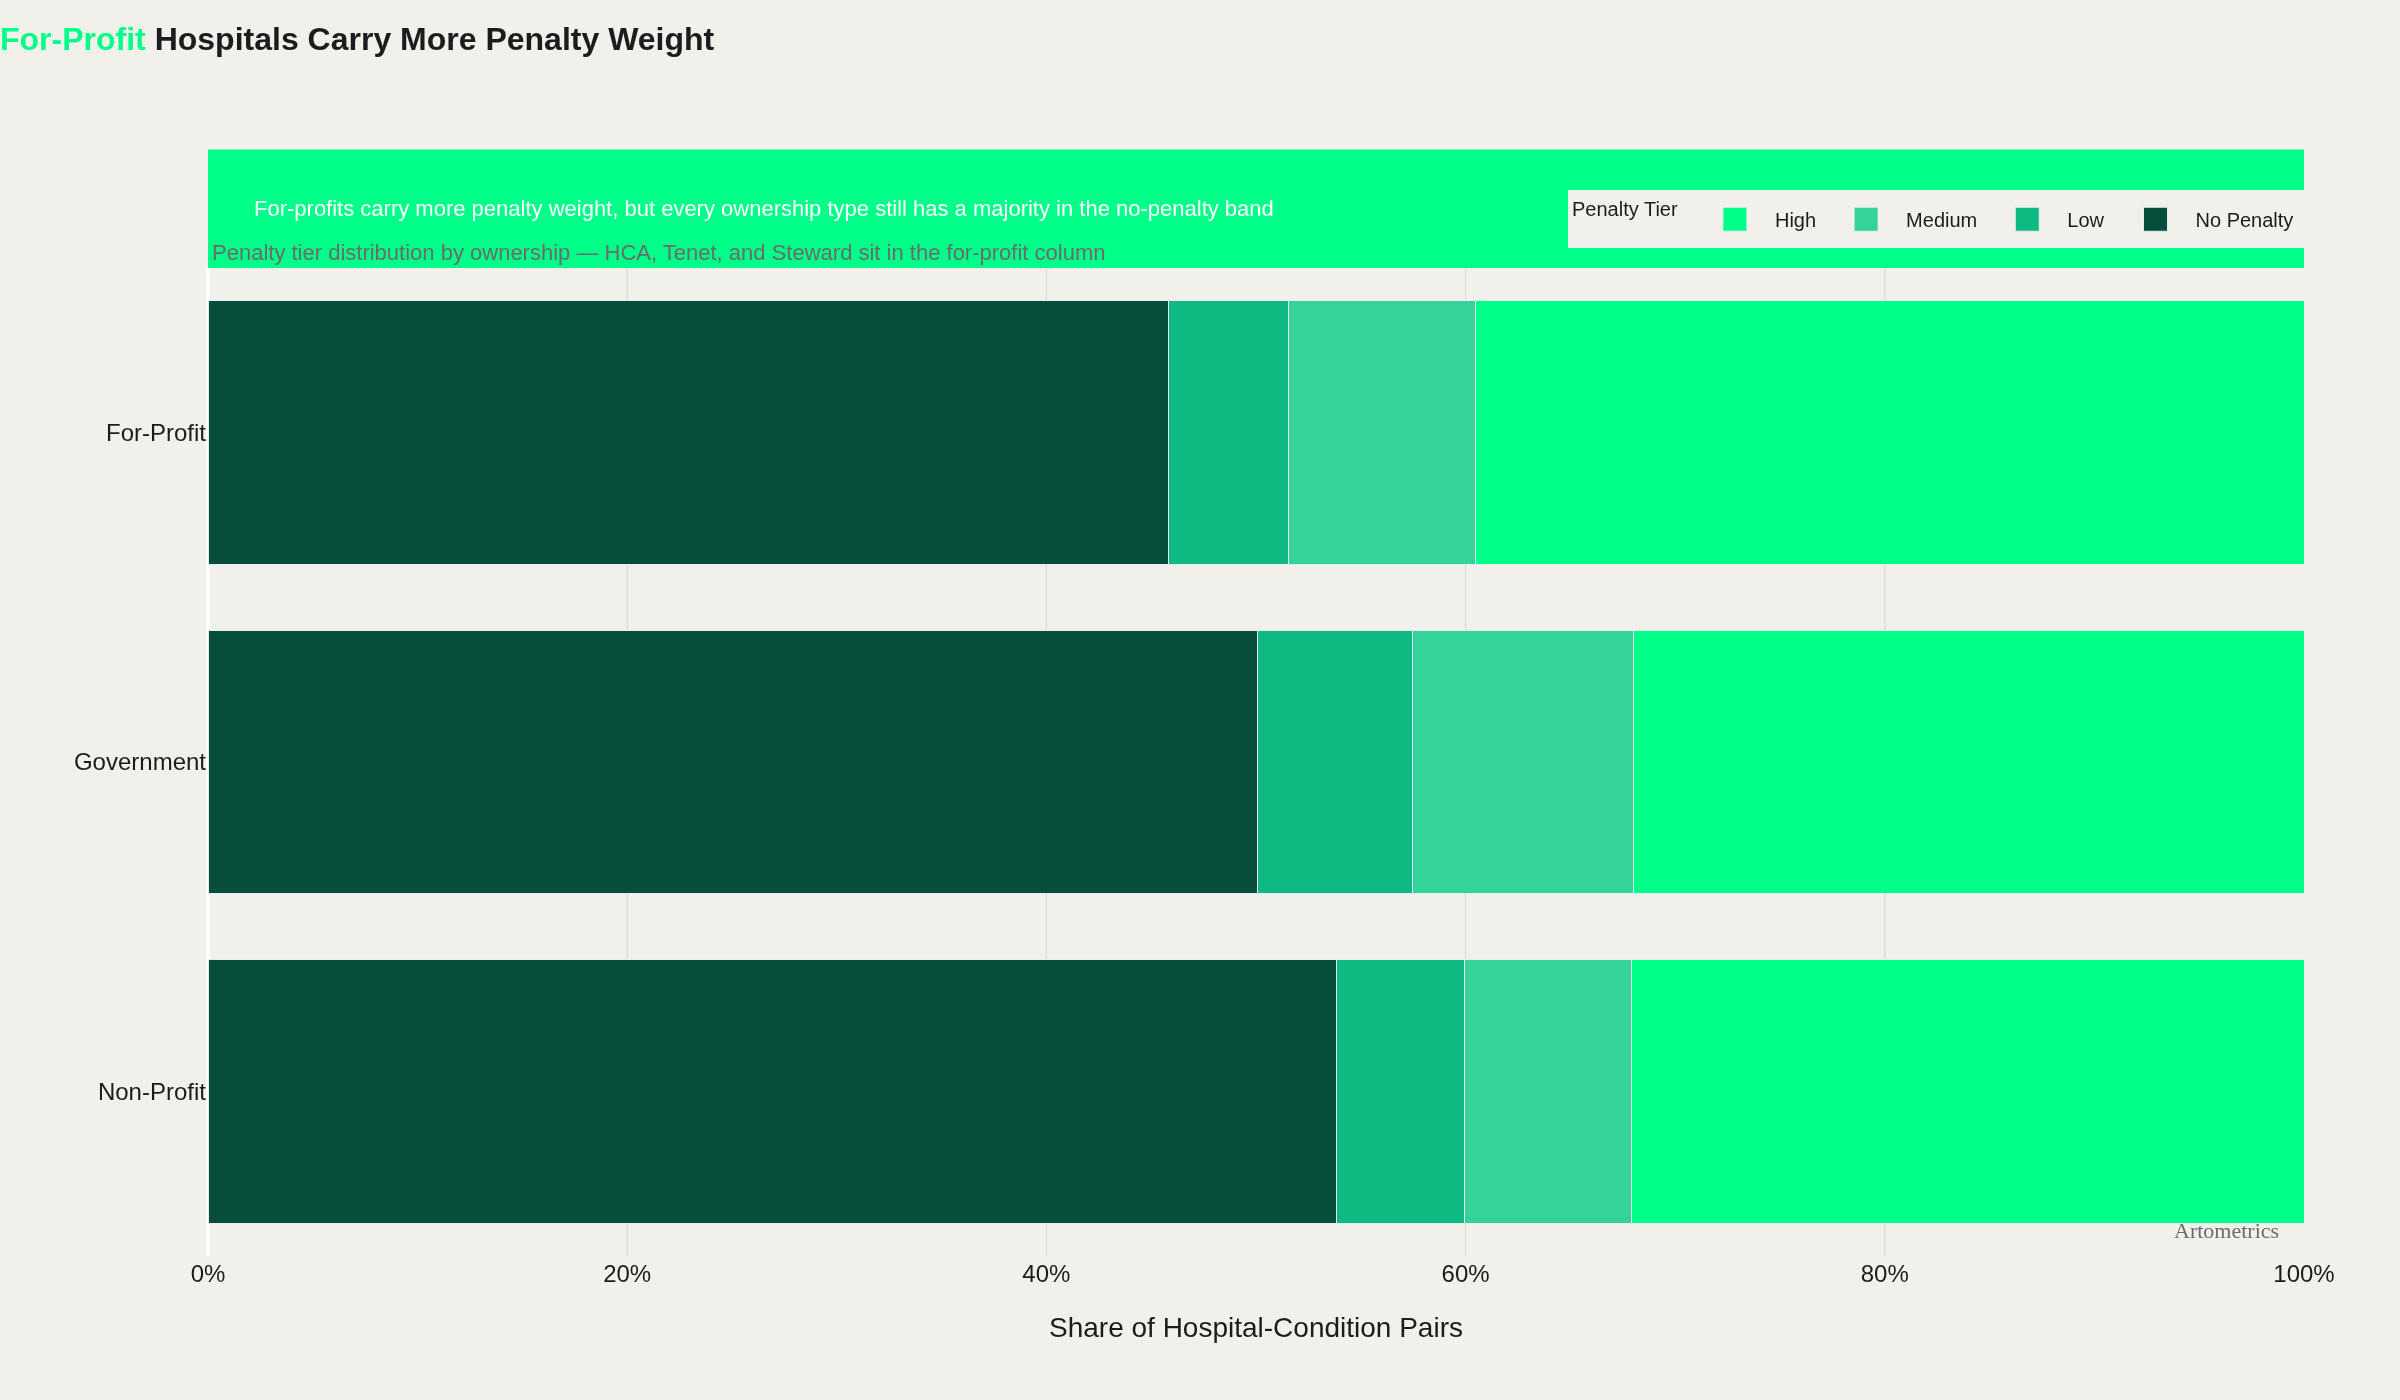
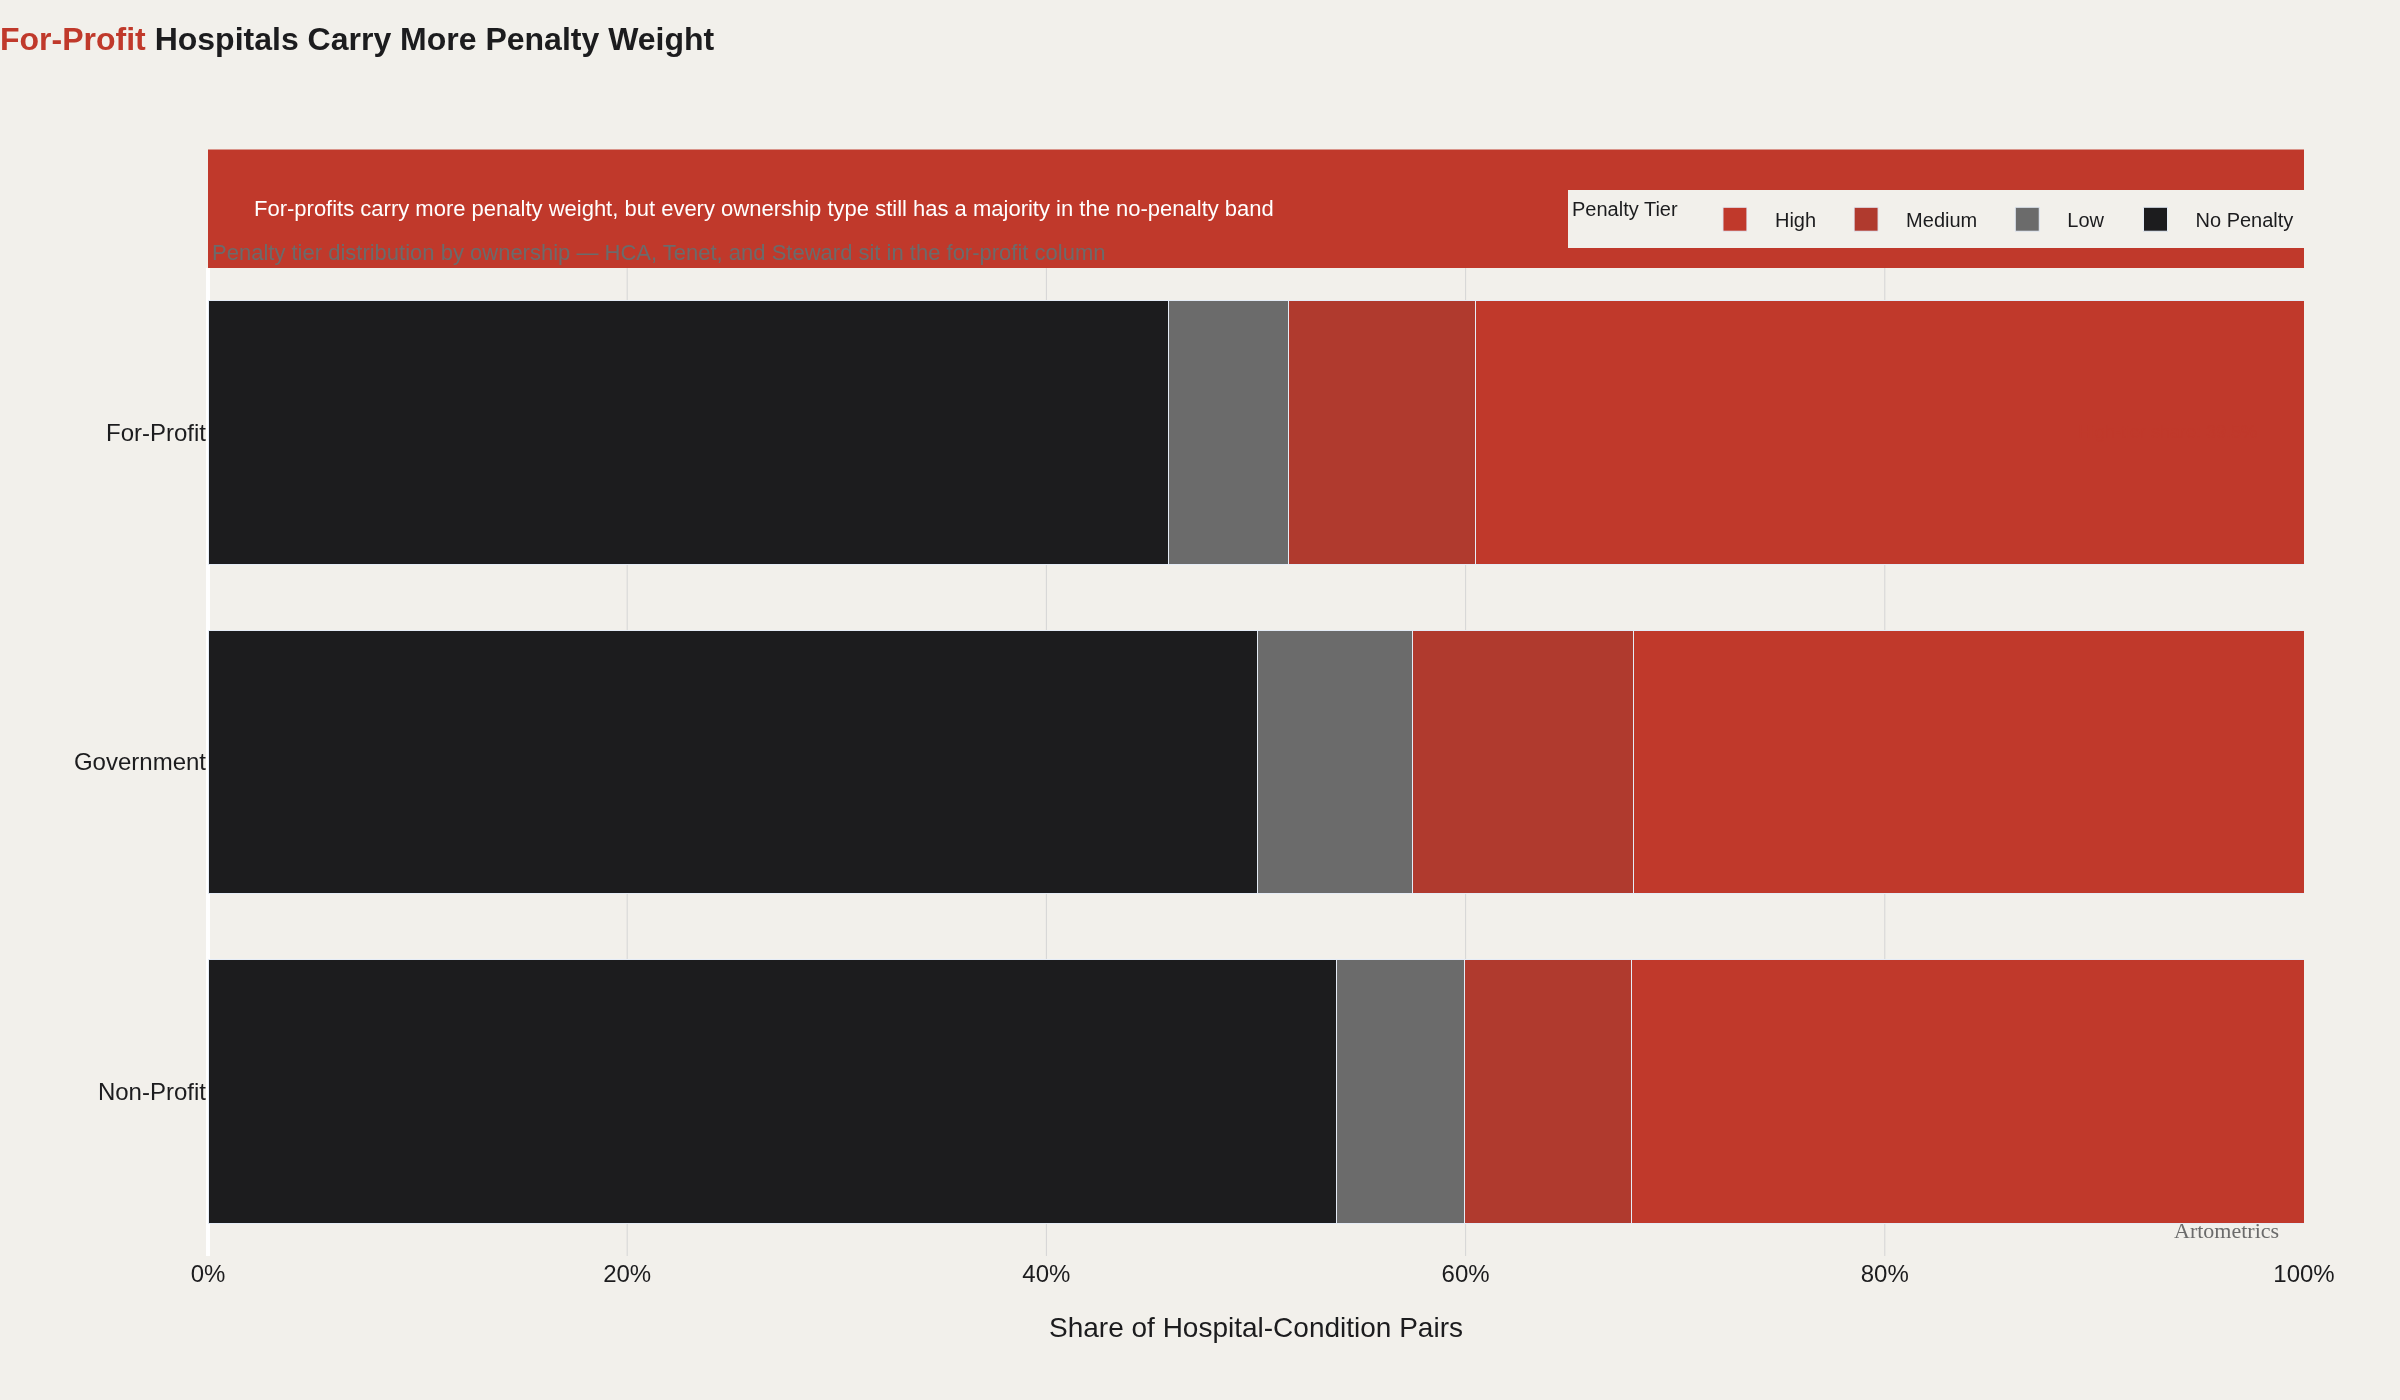
Fix search bar, red readmitted charts, and magazine-style prose
- Apply mobile search fix: portal modal to body, iOS input styling, z-index 10050
- Regenerate readmitted charts with red/white/black Artometrics palette
- Replace MYTH card UI with Economist-style h3 subheaders and flowing prose

diff --git a/src/styles/global.css b/src/styles/global.css
@@ -221,6 +221,18 @@
   outline-offset: 2px;
 }
 
+.site-search-input,
+.site-search-input:focus,
+.site-search-input:focus-visible {
+  outline: none !important;
+  box-shadow: none !important;
+  -webkit-tap-highlight-color: transparent;
+}
+
+body.site-search-open {
+  overflow: hidden;
+}
+
 body {
   text-rendering: optimizeLegibility;
   -webkit-font-smoothing: antialiased;

diff --git a/scripts/render-readmitted-charts.py b/scripts/render-readmitted-charts.py
@@ -16,30 +16,30 @@ SITE_IMG = ROOT / "public/images/content/articles/readmitted/charts"
 
 ART_CREAM = "#F2F0EB"
 ART_DARK = "#1C1C1E"
-ART_HIGHLIGHT = "#00FF88"
-ART_SECONDARY = "#059669"
+ART_HIGHLIGHT = "#C0392B"
+ART_SECONDARY = "#1C1C1E"
 ART_MID = "#6B6B6B"
 ART_MUTED = "#D5D5D5"
 FONT = "DM Sans, Helvetica, Arial, sans-serif"
 
 BAR_GRADIENT = [
-    "#022C22",
-    "#064E3B",
-    "#065F46",
-    "#047857",
-    "#059669",
-    "#10B981",
-    "#34D399",
-    "#6EE7B7",
-    "#86EFAC",
-    "#00FF88",
+    "#1C1C1E",
+    "#2A2A2A",
+    "#3A3A3A",
+    "#4A4A4A",
+    "#5C5C5C",
+    "#6E3A34",
+    "#8B3228",
+    "#A93226",
+    "#C0392B",
+    "#E74C3C",
 ]
 
 TIER_COLORS = {
-    "No Penalty": "#064E3B",
-    "Low": "#10B981",
-    "Medium": "#34D399",
-    "High": "#00FF88",
+    "No Penalty": "#1C1C1E",
+    "Low": "#6B6B6B",
+    "Medium": "#B03A2E",
+    "High": "#C0392B",
 }
 
 NAT_AVG_PCT = 48.1
@@ -203,7 +203,7 @@ def chart1(state_df: pd.DataFrame) -> go.Figure:
 
     fig.update_layout(
         **base_layout(
-            "<b>Which <span style='color:#00FF88;'>States</span> Have the Most Penalized Hospitals?</b>",
+            "<b>Which <span style='color:#C0392B;'>States</span> Have the Most Penalized Hospitals?</b>",
             "Above-average states only — share of hospital-condition pairs with ERR > 1.0",
             takeaway="Geography isn't destiny — wealthy states lead the penalty list alongside the rural South",
             xaxis=dict(
@@ -298,7 +298,7 @@ def chart2() -> go.Figure:
 
     fig.update_layout(
         **base_layout(
-            "<b>The <span style='color:#00FF88;'>Hip/Knee</span> Problem: ERR by Condition</b>",
+            "<b>The <span style='color:#C0392B;'>Hip/Knee</span> Problem: ERR by Condition</b>",
             "All six HRRP conditions exceed 1.0 — but the spread is measured in thousandths",
             takeaway="Elective joint surgery — not heart attacks — carries the highest excess readmission ratio",
             xaxis=dict(
@@ -374,7 +374,7 @@ def chart3(own_df: pd.DataFrame) -> go.Figure:
 
     fig.update_layout(
         **base_layout(
-            "<b><span style='color:#00FF88;'>For-Profit</span> Hospitals Carry More Penalty Weight</b>",
+            "<b><span style='color:#C0392B;'>For-Profit</span> Hospitals Carry More Penalty Weight</b>",
             "Penalty tier distribution by ownership — HCA, Tenet, and Steward sit in the for-profit column",
             takeaway="For-profits carry more penalty weight, but every ownership type still has a majority in the no-penalty band",
             barmode="stack",

diff --git a/src/content/blog/readmitted.md b/src/content/blog/readmitted.md
@@ -108,24 +108,13 @@ margin: 0;
 </div>
 </div>
 </div>
-<p>Nearly half of all hospital-condition pairs in this dataset carry an excess readmission ratio above 1.0. The map of where those pairs cluster breaks three assumptions people bring to HRRP.</p>
-<div class="art-myth-grid">
-  <article class="art-myth-card">
-    <p class="art-myth-card__index">MYTH 1</p>
-    <p class="art-myth-card__myth">Readmission penalties are mainly a Southern, rural poverty story — under-resourced hospitals in chronically sick regions.</p>
-    <p class="art-myth-card__reality"><strong>What the data shows:</strong> New Jersey leads at 65.4%, with Massachusetts and Mississippi close behind. Georgia, Kentucky, and West Virginia show up — but so do Illinois, California, New York, and Pennsylvania. Dense academic markets and rural high-poverty states land in the same penalty bucket.</p>
-  </article>
-  <article class="art-myth-card">
-    <p class="art-myth-card__index">MYTH 2</p>
-    <p class="art-myth-card__myth">If your state sits below the national average, your hospitals have largely solved the readmission problem.</p>
-    <p class="art-myth-card__reality"><strong>What the data shows:</strong> Below-average means a smaller share of hospital-condition pairs exceed ERR 1.0 — not zero penalties. Even better-performing states still have hospitals losing Medicare revenue on readmissions.</p>
-  </article>
-  <article class="art-myth-card">
-    <p class="art-myth-card__index">MYTH 3</p>
-    <p class="art-myth-card__myth">The 48.1% national penalized rate means CMS is punishing hospitals everywhere at roughly the same intensity.</p>
-    <p class="art-myth-card__reality"><strong>What the data shows:</strong> The chart shows only states above the national average — roughly 20 states pulling the mean up. Penalty exposure is concentrated geographically, not evenly distributed.</p>
-  </article>
-</div>
+<p>Nearly half of all hospital-condition pairs in this dataset carry an excess readmission ratio above 1.0. But that national average hides something important: the penalties are not evenly distributed.</p>
+<h3>The Southern poverty story doesn't hold</h3>
+<p>New Jersey leads the country at 65.4% — meaning nearly two out of every three hospital-condition pairs in the state are performing worse than CMS models expect. Massachusetts and Mississippi follow close behind. New Jersey hosts some of the country's highest-revenue hospital systems — Hackensack Meridian, RWJBarnabas — while Massachusetts is home to Mass General Brigham and a dense academic-medical corridor. Mississippi is rural, high-poverty, and chronically under-served. Different systems, different patient populations, same penalty outcome.</p>
+<h3>The South over-indexes, but doesn't own the problem</h3>
+<p>Georgia, Kentucky, West Virginia, Alabama, and Louisiana cluster high — which fits the expected narrative around population health disparities. But so do Illinois, California, New York, and Pennsylvania. This is not a rural poverty problem with a clean geographic boundary. Newark's RWJBarnabas and Boston's Mass General Brigham operate in the same penalty tier as rural Mississippi — high-resource markets don't immunize a system.</p>
+<h3>Below average still means penalized</h3>
+<p>The chart only shows states above the national average — the 20-odd states pulling the 48.1% mean up. But even the better-performing states aren't clean. Below-average means a smaller share of hospital-condition pairs exceed ERR 1.0 — not zero penalties. Even states under the national line still have hospitals paying HRRP fines.</p>
 
 <h2 id="the-condition-nobody-is-solving" class="anchored">THE CONDITION NOBODY IS SOLVING</h2>
 <div class="cell">
@@ -137,24 +126,13 @@ margin: 0;
 </div>
 </div>
 </div>
-<p>All six conditions tracked under HRRP still average above ERR 1.0. The differences are measured in thousandths — which makes three common assumptions easy to miss.</p>
-<div class="art-myth-grid">
-  <article class="art-myth-card">
-    <p class="art-myth-card__index">MYTH 1</p>
-    <p class="art-myth-card__myth">Twelve years of HRRP penalties have pushed hospitals broadly back to — or below — CMS’s expected readmission rates.</p>
-    <p class="art-myth-card__reality"><strong>What the data shows:</strong> Every tracked condition still averages above 1.0. The national mean ERR is 1.0018. HRRP has clarified the problem more than it has eliminated it.</p>
-  </article>
-  <article class="art-myth-card">
-    <p class="art-myth-card__index">MYTH 2</p>
-    <p class="art-myth-card__myth">COPD’s position at the bottom of the chart means hospitals are finally controlling readmissions for the sickest respiratory patients.</p>
-    <p class="art-myth-card__reality"><strong>What the data shows:</strong> COPD’s average ERR is 1.0011 — still above benchmark. The low rank reflects CMS’s risk model, which expects a sicker baseline. The bar is lower because the patients are harder, not because outcomes are better.</p>
-  </article>
-  <article class="art-myth-card">
-    <p class="art-myth-card__index">MYTH 3</p>
-    <p class="art-myth-card__myth">Readmission risk is spread evenly across the six HRRP conditions.</p>
-    <p class="art-myth-card__reality"><strong>What the data shows:</strong> Hip/Knee replacement averages 1.004 — nearly double the excess gap versus CABG and AMI at 1.0018. Elective joint surgery shifts the danger window to post-discharge days hospitals cannot monitor, especially as stays shorten.</p>
-  </article>
-</div>
+<p>All six conditions tracked under HRRP carry an average excess readmission ratio above 1.0. But one stands apart.</p>
+<h3>Twelve years of penalties haven't reset the baseline</h3>
+<p>Every tracked condition still averages above 1.0. The national mean ERR is 1.0018. HRRP has been running since 2012; readmission rates have declined, but the program hasn't eliminated the problem — it has defined it.</p>
+<h3>Hip/Knee is the outlier</h3>
+<p>Hip and knee replacement patients are being readmitted at nearly twice the excess rate of the next closest condition — a gap that looks small in absolute terms but is enormous relative to how tightly the other five cluster. Hip/Knee's average ERR of 1.00485 sits well above CABG at 1.00187 and AMI at 1.00212. Those differences are in the fourth decimal place. They are not small when multiplied across the roughly 1.3 million joint replacements performed annually in the U.S. Elective joint surgery shifts the danger window to post-discharge days hospitals cannot monitor, especially as stays shorten.</p>
+<h3>COPD's low rank is a modeling artifact</h3>
+<p>COPD sits at the bottom of this chart at 1.0011 — but that's not a success story. COPD patients are readmitted at high rates in absolute terms. The low ERR means CMS's risk model expects a sicker baseline. The bar is lower because the patients are harder — not because outcomes are better. A 0.003 ERR gap on thousands of discharges translates to millions in penalties and, more importantly, preventable returns.</p>
 
 <h2 id="ownership-penalty-and-who-pays" class="anchored">OWNERSHIP, PENALTY, AND WHO PAYS</h2>
 <div class="cell">
@@ -166,31 +144,20 @@ margin: 0;
 </div>
 </div>
 </div>
-<p>Ownership type shapes penalty exposure — but policy debates often oversimplify who is actually paying.</p>
-<div class="art-myth-grid">
-  <article class="art-myth-card">
-    <p class="art-myth-card__index">MYTH 1</p>
-    <p class="art-myth-card__myth">HRRP is a blanket penalty regime — most hospital-condition pairs are losing money on readmissions most of the time.</p>
-    <p class="art-myth-card__reality"><strong>What the data shows:</strong> Across non-profit, government, and for-profit ownership, roughly half or more of hospital-condition pairs sit in the no-penalty tier. The stick is real, but concentrated — not universal.</p>
-  </article>
-  <article class="art-myth-card">
-    <p class="art-myth-card__index">MYTH 2</p>
-    <p class="art-myth-card__myth">For-profit hospitals are uniquely failing on readmissions while non-profits have the model figured out.</p>
-    <p class="art-myth-card__reality"><strong>What the data shows:</strong> For-profits carry about 8–10 percentage points more medium and high-tier exposure than non-profits. That is a difference of degree, not kind — all three ownership types are playing the same game.</p>
-  </article>
-  <article class="art-myth-card">
-    <p class="art-myth-card__index">MYTH 3</p>
-    <p class="art-myth-card__myth">Government hospitals are either shielded by public funding or doomed by chronic underinvestment.</p>
-    <p class="art-myth-card__reality"><strong>What the data shows:</strong> Government-owned facilities land in the middle — more penalized than non-profits, less than for-profits. Neither protection nor collapse story fits cleanly.</p>
-  </article>
-</div>
+<p>For-profit hospitals carry a higher share of medium and high penalty tiers than either non-profits or government hospitals. But the policy debate often oversimplifies who is actually paying.</p>
+<h3>HRRP is selective, not universal</h3>
+<p>Every ownership type has roughly half or more of its hospital-condition pairs performing at or below the CMS expected readmission rate. HRRP gets talked about as a widespread penalty regime. The data says most hospitals, most of the time, are hitting the benchmark. The stick is real, but concentrated — closer to an audit sampling than a blanket fine.</p>
+<h3>For-profits lead — but only by degree</h3>
+<p>The gap is real — roughly 8 to 10 percentage points more penalized pairs than non-profits — but it's a difference of degree, not kind. HCA Healthcare, Tenet Health, and Steward Health all face shareholder scrutiny over readmission penalties. All three ownership types are playing the same game. For-profits are just losing it slightly more often.</p>
+<h3>Government hospitals sit in the middle</h3>
+<p>Government-owned facilities land between non-profit and for-profit — more penalized than non-profits, less than for-profits. Neither the safety-net excuse nor the public accountability story fits cleanly. County systems operate under political oversight that slows discharge innovation; their middle-of-pack performance is its own kind of finding.</p>
 
 <h2 id="limitations" class="anchored">LIMITATIONS</h2>
 <p>CMS suppresses readmission data for hospitals that fall below 25 discharges per condition per measurement period. That threshold exists to protect statistical reliability, but the effect is systematic — small rural hospitals disappear from this analysis entirely. The hospitals in this dataset skew toward larger, busier facilities. Every finding in this report should be read with that in mind.</p>
 <p>The ownership classification in Chart 3 is derived from CMS’s Hospital General Information dataset, which uses inconsistent labeling across hospital types. Physician-owned facilities, tribal hospitals, and church-affiliated systems don’t always map cleanly into three buckets. The Government, Non-Profit, and For-Profit groupings are reasonable approximations — not clean legal categories.</p>
 <p>The excess readmission ratio compares a hospital’s actual readmissions to what CMS’s risk model predicts for that hospital’s specific patient population. A hospital serving sicker, older, lower-income patients will have a higher expected rate built into its denominator. ERR controls for case mix — but imperfectly. Hospitals in high-poverty, high-comorbidity markets may still face a structural disadvantage that the model doesn’t fully account for.</p>
 <h2 id="conclusion" class="anchored">CONCLUSION</h2>
-<p>Nearly half of all hospital-condition pairs in this dataset are performing worse than CMS models expect — but the distribution is uneven in ways the myth-by-myth breakdown above makes visible. The highest-penalty states cut across market type and regional demographics. Hip/Knee replacement sits nearly 2× above the next closest condition on excess readmissions. For-profit hospitals carry modestly more penalty exposure than non-profits, though all three ownership types are majority no-penalty.</p>
+<p>Nearly half of all hospital-condition pairs in this dataset are performing worse than CMS models expect — but the distribution is uneven in ways the sections above make visible. The highest-penalty states cut across market type and regional demographics. Hip/Knee replacement sits nearly 2× above the next closest condition on excess readmissions. For-profit hospitals carry modestly more penalty exposure than non-profits, though all three ownership types are majority no-penalty.</p>
 <p>The Hospital Readmissions Reduction Program has been in effect since 2012. The fact that 48.1% of hospital-condition pairs still exceed the 1.0 ERR threshold more than a decade later says something about the limits of financial penalties as a behavior change mechanism. Hospitals have responded — readmission rates have declined since HRRP launched — but the program hasn’t solved the problem. It has defined it.</p>
 <p>CMS’s TEAM model, mandatory for 742 hospitals starting January 1, 2026, goes further than HRRP by tying entire episodes of care to reimbursement — not just the readmission event. The hospitals that have struggled under HRRP are the ones most likely to be in scope for TEAM. The data in this report describes the problem TEAM is designed to address. Whether bundled payments succeed where readmission penalties haven’t is the next question.</p>
 <h2 id="references" class="anchored">REFERENCES</h2>